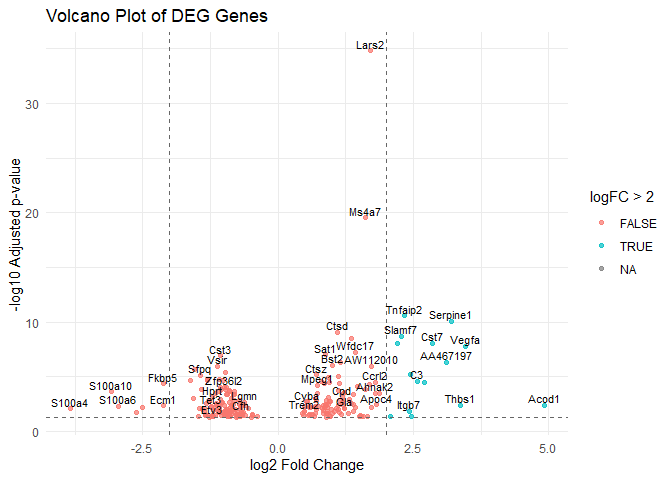
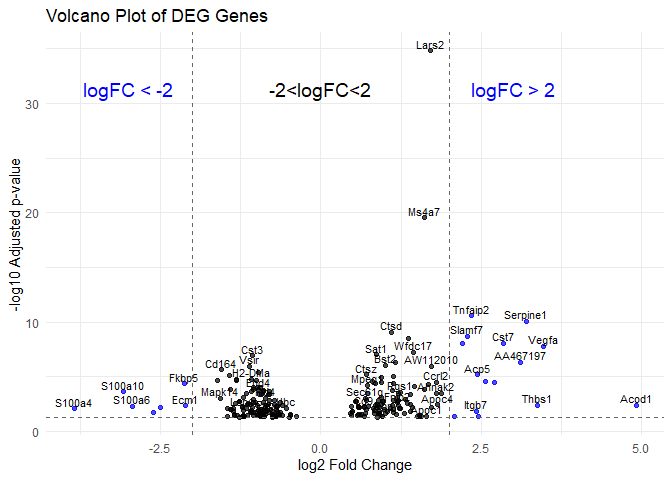
final edit

diff --git a/Projects/lizzola/thisishamed.md b/Projects/lizzola/thisishamed.md
@@ -4,6 +4,9 @@
     library(knitr)
     library(ggplot2)
     library(stringr)
+    library(gridExtra)
+    library(tibble)
+    library(dplyr)
 
 ## Data Manipulation
 
@@ -17,7 +20,7 @@
     data <- data[-1, ]
 
     # reset row numbers
-    rownames(data) <- NULL
+    data <- remove_rownames(data)
 
     # Add "(up)" to columns 6 to 11
     colnames(data)[6:11] <- paste0(colnames(data)[6:11], " (up)")
@@ -35,22 +38,28 @@
     DEG <- data[, 1:3]
     GO_terms <- data[, 4:15]
 
-## Filter DEGs
-
     # Convert logFC column to numeric
     DEG$logFC <- as.numeric(DEG$logFC)
 
     # Create new column: TRUE if logFC > 2
-    DEG$logFC_high <- DEG$logFC > 2
+    DEG$logFC_high <- abs(DEG$logFC) > 2
 
     # Ensure p.adjust is numeric
     DEG$p.adjust <- as.numeric(DEG$p.adjust)
 
-    # Filter for significant DEGs
-    DEG_filtered <- DEG[DEG$p.adjust < 0.05, ]
+## Filter DEGs
 
-    # Get top 10 DEGs by logFC
-    top10_DEGs <- DEG_filtered[order(-DEG_filtered$logFC), ][1:10, ]
+    # Filter for significant DEGs
+    top10_DEGs <- DEG %>%
+      mutate(
+        p.adjust = as.numeric(p.adjust),
+        logFC = as.numeric(logFC)
+      ) %>%
+      filter(p.adjust < 0.05) %>%
+      slice_max(order_by = logFC, n = 10)
+
+    # Remove logFC_high column before printing
+    top10_DEGs <- top10_DEGs[, !(colnames(top10_DEGs) == "logFC_high")]
 
     # Show table
     kable(top10_DEGs, caption = "Top 10 Upregulated DEGs (p.adjust < 0.05)", align = "c")
@@ -62,7 +71,6 @@
 <th style="text-align: center;">gene</th>
 <th style="text-align: center;">logFC</th>
 <th style="text-align: center;">p.adjust</th>
-<th style="text-align: center;">logFC_high</th>
 </tr>
 </thead>
 <tbody>
@@ -70,61 +78,51 @@
 <td style="text-align: center;">Acod1</td>
 <td style="text-align: center;">4.919507</td>
 <td style="text-align: center;">0.0041432</td>
-<td style="text-align: center;">TRUE</td>
 </tr>
 <tr>
 <td style="text-align: center;">Vegfa</td>
 <td style="text-align: center;">3.464017</td>
 <td style="text-align: center;">0.0000000</td>
-<td style="text-align: center;">TRUE</td>
 </tr>
 <tr>
 <td style="text-align: center;">Thbs1</td>
 <td style="text-align: center;">3.369642</td>
 <td style="text-align: center;">0.0039819</td>
-<td style="text-align: center;">TRUE</td>
 </tr>
 <tr>
 <td style="text-align: center;">Serpine1</td>
 <td style="text-align: center;">3.197021</td>
 <td style="text-align: center;">0.0000000</td>
-<td style="text-align: center;">TRUE</td>
 </tr>
 <tr>
 <td style="text-align: center;">AA467197</td>
 <td style="text-align: center;">3.112409</td>
 <td style="text-align: center;">0.0000005</td>
-<td style="text-align: center;">TRUE</td>
 </tr>
 <tr>
 <td style="text-align: center;">Cst7</td>
 <td style="text-align: center;">2.847473</td>
 <td style="text-align: center;">0.0000000</td>
-<td style="text-align: center;">TRUE</td>
 </tr>
 <tr>
 <td style="text-align: center;">Flt1</td>
 <td style="text-align: center;">2.698421</td>
 <td style="text-align: center;">0.0000350</td>
-<td style="text-align: center;">TRUE</td>
 </tr>
 <tr>
 <td style="text-align: center;">C3</td>
 <td style="text-align: center;">2.566213</td>
 <td style="text-align: center;">0.0000280</td>
-<td style="text-align: center;">TRUE</td>
 </tr>
 <tr>
 <td style="text-align: center;">Slc7a11</td>
 <td style="text-align: center;">2.457346</td>
 <td style="text-align: center;">0.0458777</td>
-<td style="text-align: center;">TRUE</td>
 </tr>
 <tr>
 <td style="text-align: center;">Acp5</td>
 <td style="text-align: center;">2.441797</td>
 <td style="text-align: center;">0.0000066</td>
-<td style="text-align: center;">TRUE</td>
 </tr>
 </tbody>
 </table>
@@ -140,14 +138,14 @@
     pattern <- paste(keywords, collapse = "|")
 
     # Filter GO terms (upregulated only)
-    GO_up_filtered <- GO_terms[grepl(pattern, GO_terms$`Description (up)`, ignore.case = TRUE), ]
-
-    # Remove "(down)" columns
-    GO_up_filtered <- GO_up_filtered[, !grepl("\\(down\\)", colnames(GO_up_filtered))]
+    GO_up_filtered <- GO_terms %>%
+      filter(grepl(pattern, `Description (up)`, ignore.case = TRUE)) %>%
+      select(-matches("\\(down\\)"))
 
     # Remove unwanted columns
-    cols_to_remove <- c("BgRatio (up)", "pvalue (up)", "ID (up)")
-    GO_up_filtered <- GO_up_filtered[, !(colnames(GO_up_filtered) %in% cols_to_remove)]
+    GO_up_filtered <- GO_up_filtered %>%
+      select(-any_of(c("BgRatio (up)", "pvalue (up)", "ID (up)")))
+
 
     # Rename columns
     colnames(GO_up_filtered) <- c("Description", "GeneRatio", "p.adjust")
@@ -162,6 +160,9 @@
       geom_point(aes(color = logFC_high), alpha = 0.7) +
       geom_vline(xintercept = c(-2, 2), linetype = "dashed", color = "gray40") +
       geom_hline(yintercept = -log10(0.05), linetype = "dashed", color = "gray40") +
+      annotate("text", x = -3, y = max(DEG$neg_log10_padj, na.rm = TRUE)*0.9, label = "logFC < -2", color = "blue", size = 5) +
+      annotate("text", x = 0, y = max(DEG$neg_log10_padj, na.rm = TRUE)*0.9, label = "-2<logFC<2", color = "black", size = 5) +
+      annotate("text", x = 3, y = max(DEG$neg_log10_padj, na.rm = TRUE)*0.9, label = "logFC > 2", color = "blue", size = 5) +
       geom_text(aes(label = gene), check_overlap = TRUE, size = 3, vjust = -0.3) +
       labs(
         title = "Volcano Plot of DEG Genes",
@@ -169,6 +170,7 @@
         y = "-log10 Adjusted p-value",
         color = "logFC > 2"
       ) +
+      scale_color_manual(values = c("FALSE" = "black", "TRUE" = "blue"), guide = "none") +  # <- removes legend
       theme_minimal()
 
 ![](thisishamed_files/figure-markdown_strict/unnamed-chunk-5-1.png)
@@ -186,23 +188,34 @@
     GO_dotplot$p.adjust <- as.numeric(GO_dotplot$p.adjust)
 
     # Sort and select top 15
-    top_n <- 15
-    GO_dotplot_top <- GO_dotplot[order(GO_dotplot$GeneRatio, decreasing = TRUE), ][1:top_n, ]
+    GO_dotplot_top <- GO_dotplot %>%
+      slice_max(order_by = GeneRatio, n = 15)
 
     # Dot plot
-    ggplot(GO_dotplot_top, aes(x = GeneRatio, y = reorder(Description, GeneRatio))) +
+    # Create letter labels
+    GO_dotplot_top$Label <- LETTERS[1:nrow(GO_dotplot_top)]
+
+    # Save a lookup table (if you want to display separately too)
+    label_lookup <- GO_dotplot_top[, c("Label", "Description")]
+
+    # Dot plot using label letters
+    ggplot(GO_dotplot_top, aes(x = Label, y = GeneRatio)) +
       geom_point(aes(size = GeneRatio, color = p.adjust)) +
       scale_color_gradient(low = "red", high = "lightgray", name = "Adjusted p-value") +
       labs(
         title = "Top 15 Upregulated GO Terms Dot Plot",
-        x = "Gene Ratio",
-        y = "GO Term Description"
+        x = "GO Term (Letter Code)",
+        y = "Gene Ratio"
       ) +
       theme_minimal() +
-      coord_flip() +
       theme(
-        axis.text.y = element_text(size = 10),
+        axis.text.x = element_text(size = 12),
         legend.position = "right"
+      ) +
+      # Add table below
+      annotation_custom(
+        gridExtra::tableGrob(label_lookup, rows = NULL),
+        ymin = -0.2, ymax = -0.1, xmin = -Inf, xmax = Inf
       )
 
 ![](thisishamed_files/figure-markdown_strict/unnamed-chunk-6-1.png)
